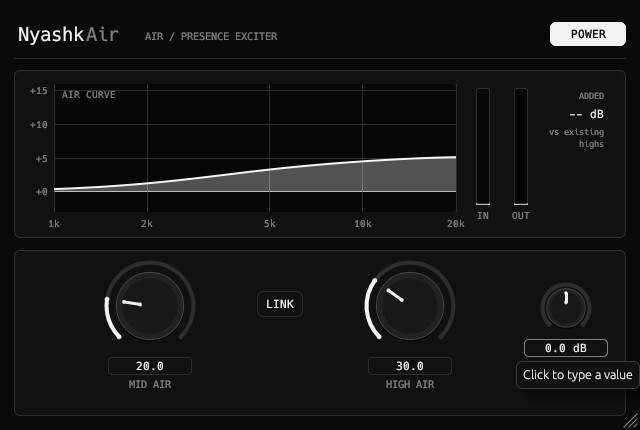
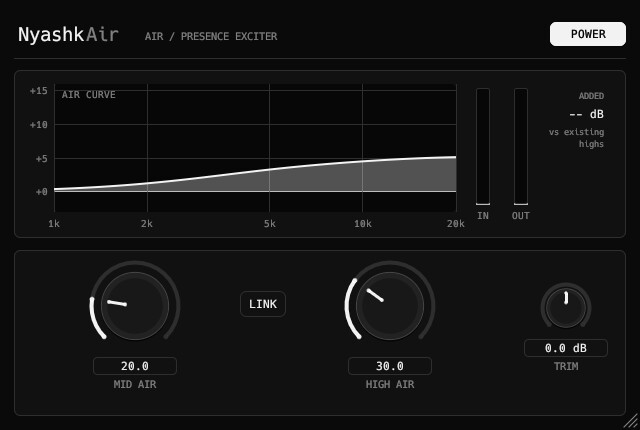
Meter/Air layout fixes; auto-publish release on push to main (version unchanged)
Claude-Session: https://claude.ai/code/session_01EndxvcXZsUxUuBFyUHCgZr

diff --git a/plugins/nyashkair/src/editor.rs b/plugins/nyashkair/src/editor.rs
@@ -96,8 +96,8 @@ pub fn create(params: Arc<AirParams>, meters: Arc<Meters>) -> Option<Box<dyn Edi
                 panel(ui, kp);
                 let link = p.link.value();
                 let cell = |cx: f32| Rect::from_min_size(Pos2::new(o.x + cx - 90.0, kp.top() + 6.0), Vec2::new(180.0, 150.0));
-                let a = knob_r(ui, setter, &p.mid, "MID AIR", cell(150.0), "Presence: 2 to 8 kHz. Adds a gentle lift plus fresh harmonics, reduced automatically on loud passages.", false, 46.0);
-                let b = knob_r(ui, setter, &p.high, "HIGH AIR", cell(BASE_W - 150.0 - 80.0), "Brilliance above 8 kHz. Adds a silky lift plus new high harmonics (like opening a window on the top end).", false, 46.0);
+                let a = knob_r(ui, setter, &p.mid, "MID AIR", cell(135.0), "Presence: 2 to 8 kHz. Adds a gentle lift plus fresh harmonics, reduced automatically on loud passages.", false, 46.0);
+                let b = knob_r(ui, setter, &p.high, "HIGH AIR", cell(390.0), "Brilliance above 8 kHz. Adds a silky lift plus new high harmonics (like opening a window on the top end).", false, 46.0);
                 if link {
                     if a.delta != 0.0 {
                         set_norm(setter, &p.high, p.high.unmodulated_normalized_value() + a.delta);
@@ -105,7 +105,7 @@ pub fn create(params: Arc<AirParams>, meters: Arc<Meters>) -> Option<Box<dyn Edi
                         set_norm(setter, &p.mid, p.mid.unmodulated_normalized_value() + b.delta);
                     }
                 }
-                if pill_tip(ui, Rect::from_center_size(Pos2::new(o.x + (150.0 + BASE_W - 230.0) / 2.0, kp.top() + 54.0), Vec2::new(46.0, 26.0)), "LINK", link, "Link the two knobs: moving one moves the other by the same amount.") {
+                if pill_tip(ui, Rect::from_center_size(Pos2::new(o.x + (135.0 + 390.0) / 2.0, kp.top() + 54.0), Vec2::new(46.0, 26.0)), "LINK", link, "Link the two knobs: moving one moves the other by the same amount.") {
                     set_b(setter, &p.link, !link);
                 }
                 knob_r(ui, setter, &p.trim, "TRIM", Rect::from_min_size(Pos2::new(o.x + BASE_W - 14.0 - 110.0, kp.top() + 28.0), Vec2::new(100.0, 120.0)), "Output trim in dB.", true, 26.0);

diff --git a/RELEASE_NOTES.md b/RELEASE_NOTES.md
@@ -1,3 +1,3 @@
 ## NyashkAir 1.0.0
 
-First release. VST3 for Linux, Windows and macOS. Air / presence exciter VST3 plugin: MID AIR and HIGH AIR with dynamic reduction and a live curve.
+First release. VST3 for Linux, Windows and macOS.
